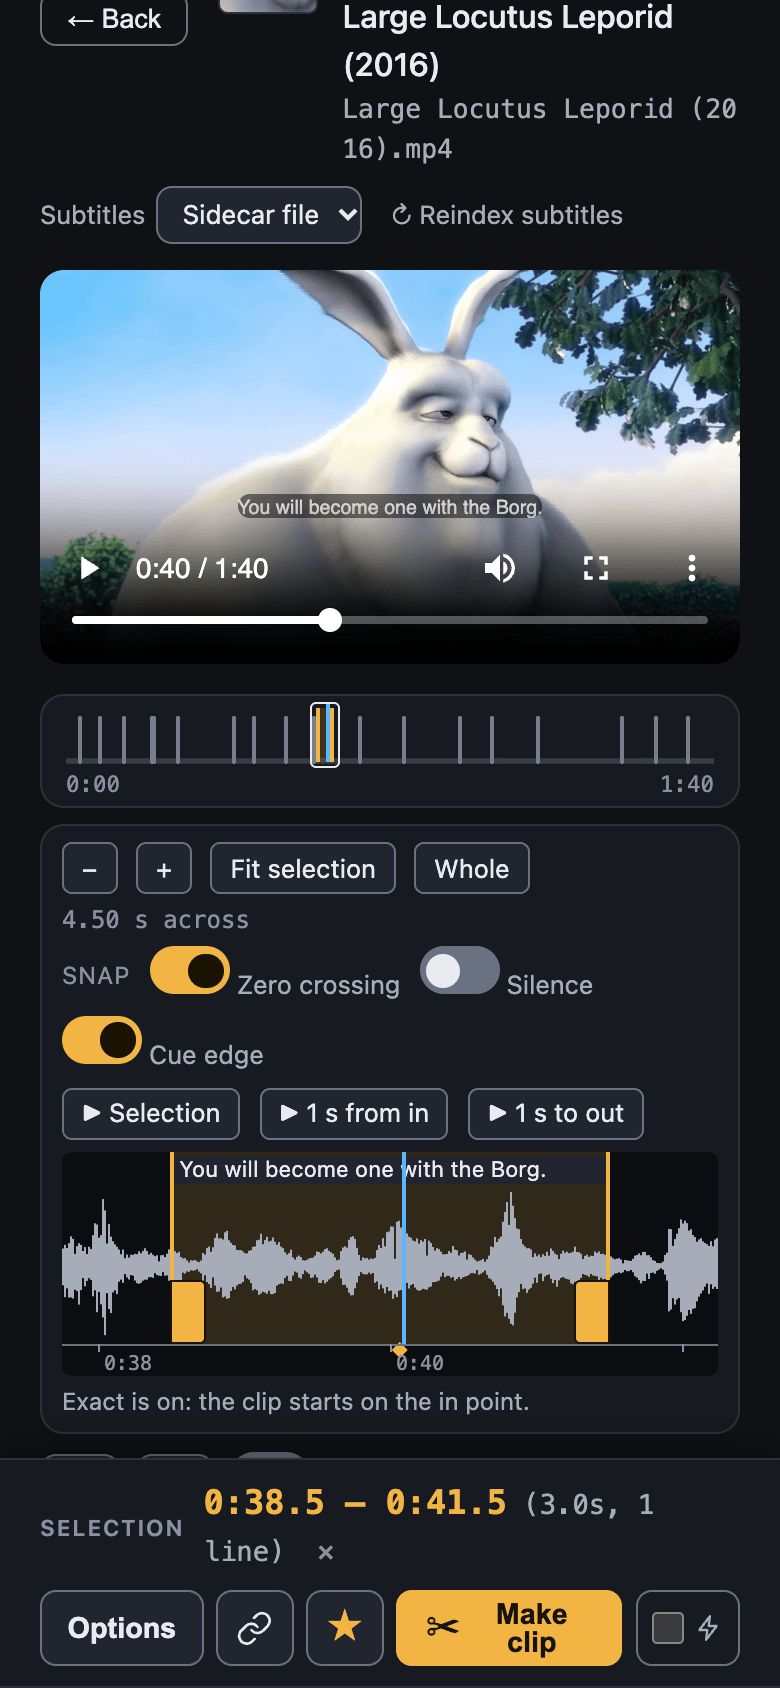
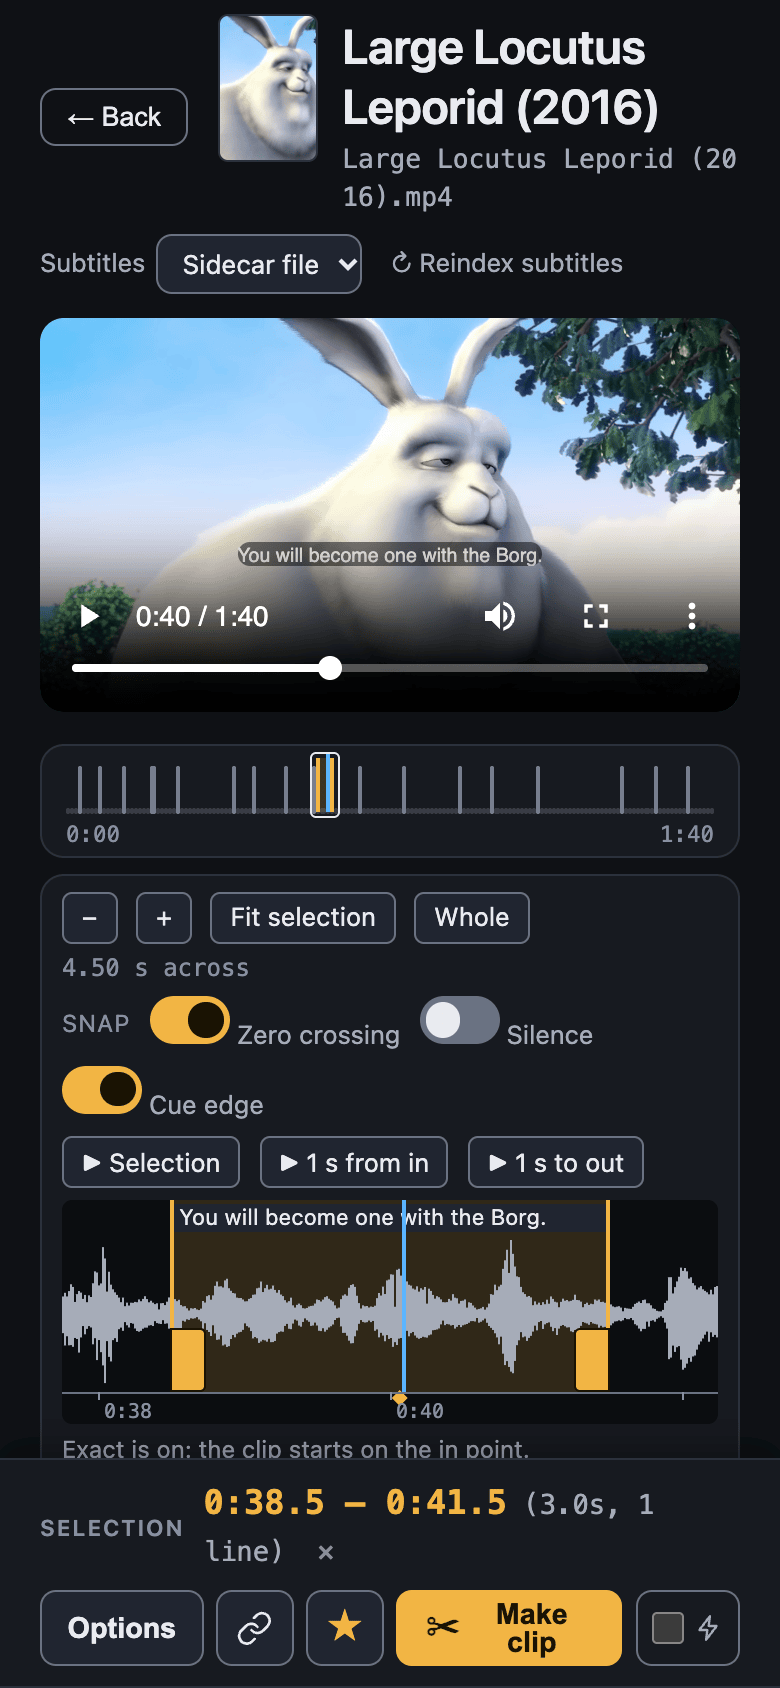
docs: retake the workspace screenshots with the title shown once (M19)
workspace-dark, workspace-light and phone showed the movie's title twice, from
before the header fix. The phone shot no longer scrolls past the title, which now
has no Jellyfin line under it to stand in for it.

diff --git a/docs/screenshots/fixture/shoot.py b/docs/screenshots/fixture/shoot.py
@@ -130,11 +130,13 @@ async def main():
                                     is_mobile=True, has_touch=True, color_scheme="dark")
         page = await home(phone)
         await open_movie_from_now_playing(page)
-        # Scroll the waveform strip up to just above the selection pinned to the bottom.
+        # Scroll the waveform strip up to just above the selection pinned to the bottom,
+        # but never past the title.
         await page.evaluate("""() => {
             const wave = document.getElementById('waveform').getBoundingClientRect();
             const bar = document.querySelector('.ws-clip').getBoundingClientRect();
-            window.scrollBy(0, wave.bottom + 12 - bar.top);
+            const title = document.getElementById('item-name').getBoundingClientRect();
+            window.scrollBy(0, Math.min(wave.bottom + 12 - bar.top, title.top - 8));
         }""")
         await settle(page, 800)
         await shot(page, "phone")
